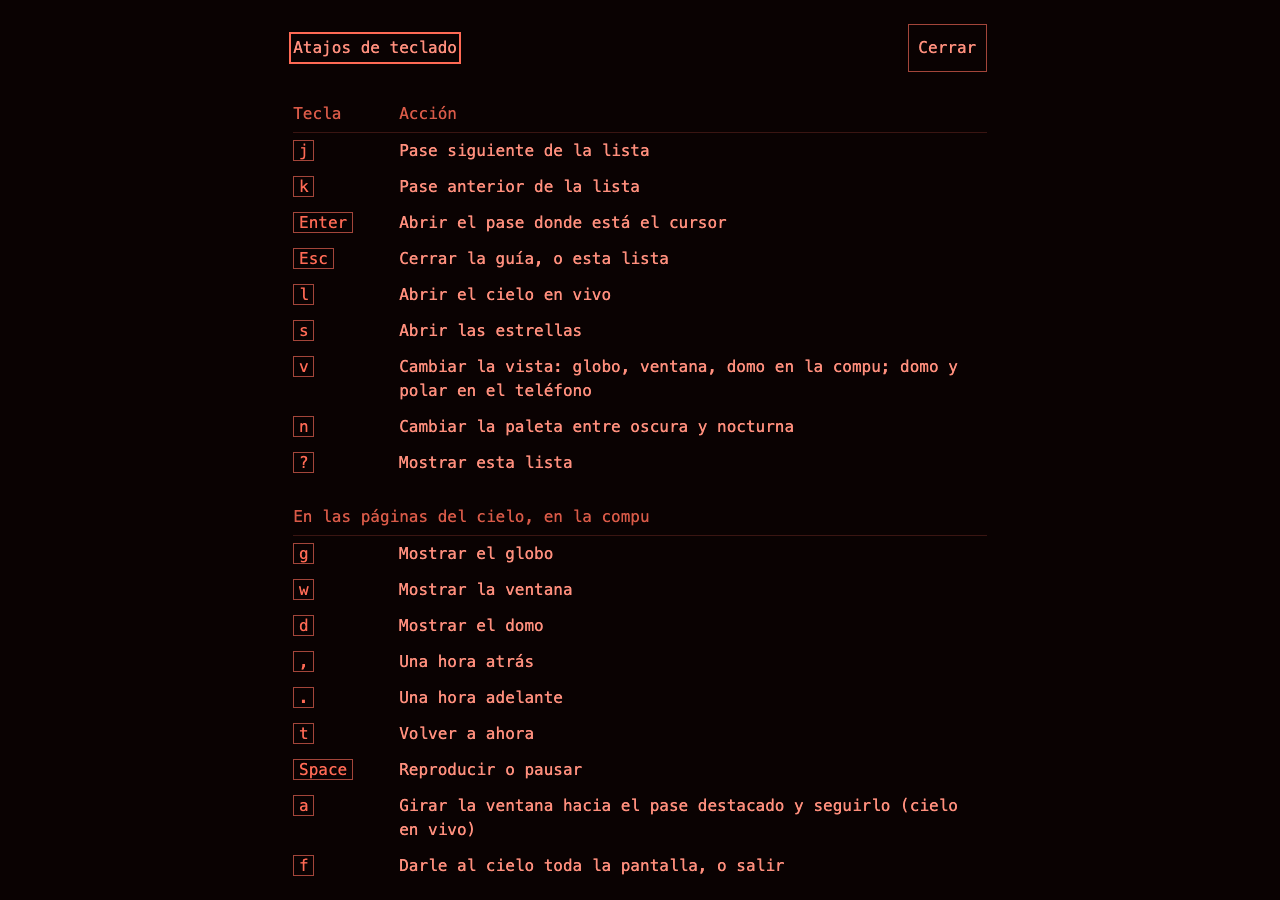
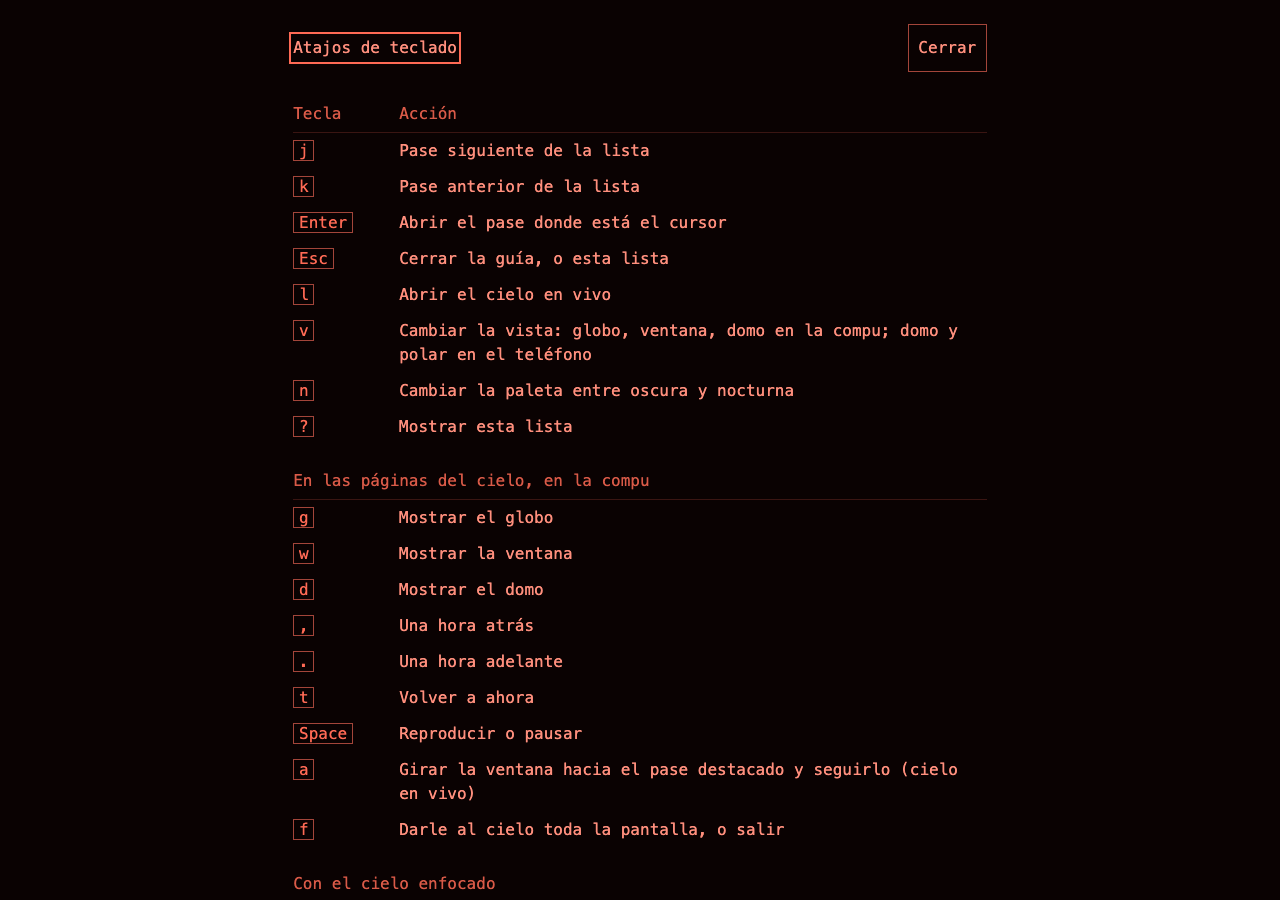
R222: live takes the focus on its h1; the overlay loses s
FR-A11Y-4, D-1230: with no Back, entering #live from inside focuses the h1. structure.spec and shortcuts.spec follow; the four r35 overlay captures drop the s row.

diff --git a/tests/e2e/structure.spec.ts b/tests/e2e/structure.spec.ts
@@ -5,10 +5,9 @@
  * `App.structure.test.tsx` holds the same per screen in jsdom; this is where the widths, the stored run and
  * the real history are.
  */
-import { expect, type Locator, type Page } from '@playwright/test';
+import { expect, type Page } from '@playwright/test';
 import { test } from '@playwright/test';
-import { ROW_PX } from '../../src/lib/layout';
-import { domeDrawn, seedStoredRun, STORED_RUN, type StoredRun } from './liveHelpers';
+import { seedStoredRun, STORED_RUN, type StoredRun } from './liveHelpers';
 import { A11Y_MAX_H2, landmarkCounts, pageOutline, skippedLevels } from './structure';
 
 const PHONE = { width: 390, height: 844 };
@@ -52,8 +51,6 @@ const list = async (page: Page): Promise<void> => {
 const openGuide = (page: Page, nth = 0) => page.getByRole('button', { name: /Open guide|Abrir la guía/ }).nth(nth);
 /** The guide's way out: the sheet's `← Back to the list` on a phone, the panel's `×` on a desk. */
 const closeGuide = (page: Page) => page.locator('[role="dialog"][data-pass-id] button').first().or(page.getByTestId('guide-panel').getByRole('button', { name: 'Close the guide' }));
-/** The live page's Back control: R148's head over the sky carries it with its `live-back` test id. */
-const liveBack = (page: Page) => page.getByTestId('live-back');
 const focused = (page: Page): Promise<string> =>
   page.evaluate(() => {
     const active = document.activeElement;
@@ -128,7 +125,8 @@ test.describe('the title (FR-A11Y-3, US-30 AC3)', () => {
       await expect(page).toHaveTitle(words.app);
       await page.getByTestId('live-link').click();
       await expect(page).toHaveTitle(`${words.live} · ${words.app}`);
-      await page.getByTestId('live-back').click();
+      // R222 (D-1230): live is a tab with no Back; the browser's Back leaves it.
+      await page.goBack();
       await expect(page).toHaveTitle(words.app);
       await openGuide(page).click();
       // "<satellite> <start time> · <app title>"
@@ -162,9 +160,10 @@ test.describe('focus and the announcer (FR-A11Y-4, US-30 AC4)', () => {
 
     await page.getByTestId('live-link').focus();
     await page.keyboard.press('Enter');
-    // R213 (FR-STRIP-5): nothing asks, so the focus is Back's and one `Esc` leaves the page to the control that opened it (FR-A11Y-4).
-    await expect.poll(() => focused(page)).toBe('live-back');
-    await page.keyboard.press('Escape');
+    // R222 (D-1230): live is a tab with no Back, so the focus is its `h1`; the browser's Back leaves it, the focus back on
+    // the control that opened it (FR-A11Y-4).
+    await expect.poll(() => focused(page)).toMatch(/^h1:/);
+    await page.goBack();
     await list(page);
     await expect.poll(() => focused(page)).toBe('live-link');
 
@@ -221,7 +220,7 @@ test.describe('history (FR-ROUTE-1..3, F-91)', () => {
     });
     cycles.push(async () => {
       await page.getByTestId('live-link').click();
-      await liveBack(page).click();
+      await page.goBack();
     });
     cycles.push(async () => {
       await page.getByTestId('settings-link').click();
@@ -303,20 +302,7 @@ test.describe('history (FR-ROUTE-1..3, F-91)', () => {
   });
 });
 
-/** FR-CTRL-17, D-1247: the box overhangs Back's line by a hairline, and the ring's inner edge is outside it on every side. */
-async function expectRingOutsideBox(back: Locator): Promise<void> {
-  const covered = await back.evaluate((element) => {
-    const box = element.querySelector('span');
-    if (!box) throw new Error('Back has no box');
-    const line = element.getBoundingClientRect();
-    const drawn = box.getBoundingClientRect();
-    const offset = parseFloat(getComputedStyle(element).outlineOffset);
-    return Math.max(line.top - drawn.top, drawn.bottom - line.bottom, line.left - drawn.left, drawn.right - line.right) - offset;
-  });
-  expect(covered, 'the ring covers none of the box').toBeLessThanOrEqual(0.1);
-}
-
-// R215 (FR-CTRL-5): the header's `← back` has no box, so FR-CTRL-17's rule is the live page's Back's alone (below).
+// R215 (FR-CTRL-5): the header's `← back` has no box, and the live page's Back, FR-CTRL-17's other case, went in R222 (D-1230).
 test("the header's back draws no box, Settings at 360 px (FR-CTRL-5)", async ({ page }) => {
   await page.setViewportSize({ width: 360, height: 640 });
   await seedStoredRun(page, { settled: true });
@@ -330,40 +316,4 @@ test("the header's back draws no box, Settings at 360 px (FR-CTRL-5)", async ({ 
   for (const width of borders) expect(width).toBe('0px');
 });
 
-/**
- * F-100 (V21-24, D-642; FR-A11Y-4, FR-X-5): entering `#live` focuses Back, and with no pointer or key yet pressed
- * the browser draws that as `:focus-visible`. The ring goes round the text line, not the 48 px tap box, so it stays
- * off the line under it, and taking the tap box away while it shows moves nothing on the page. A row that grew here
- * once moved `[ scrub ]` between a pointer's down and up, and the click was lost.
- */
-// R212 (D-1267): 1200 × 450 left the list: a desk's live page is a tab and draws no Back.
-for (const size of [PHONE, { width: 844, height: 390 }]) {
-  test(`Back's focus ring hugs its line and moves nothing, ${String(size.width)} × ${String(size.height)} (F-100)`, async ({ page }) => {
-    await page.setViewportSize(size);
-    await seedStoredRun(page, { settled: true });
-    // R212 (D-1267): live as the load's own entry has no Back, so it is entered from the satellites page's link, by key.
-    await page.locator('#root > header').getByTestId('live-link').focus();
-    await page.keyboard.press('Enter');
-    await domeDrawn(page);
-    const back = page.getByTestId('live-back');
-    // R213 (FR-STRIP-5): nothing asks at any width, so the focus is where the page put it and the ring the browser's own.
-    await expect(page.locator('[aria-modal="true"]')).toHaveCount(0);
-    await expect(back).toBeFocused();
-    expect(await back.evaluate((element) => element.matches(':focus-visible'))).toBe(true);
-    const boxes = (): Promise<number[][]> =>
-      page.evaluate(() =>
-        Array.from(document.querySelectorAll('[data-testid="live-page"] button')).filter((b) => b.getAttribute('data-testid') !== 'live-back').map((b) => {
-          const r = b.getBoundingClientRect();
-          return [r.x, r.y, r.width, r.height];
-        }),
-      );
-    const focusedBoxes = await boxes();
-    const ring = await back.boundingBox();
-    expect(ring?.height, 'the ring is drawn round the text line, not the tap box').toBeLessThanOrEqual(ROW_PX);
-    await expectRingOutsideBox(back);
-    await back.evaluate((element) => {
-      (element as HTMLElement).blur();
-    });
-    expect(await boxes(), 'nothing on the page moved when the ring went').toEqual(focusedBoxes);
-  });
-}
+// R222 (D-1230): F-100's Back on `#live` went with live's Back; live is a tab at every width.

diff --git a/tests/e2e/shortcuts.spec.ts b/tests/e2e/shortcuts.spec.ts
@@ -141,7 +141,7 @@ test('? opens the overlay, which lists the keys, and Esc closes it', async ({ pa
 
   const overlay = page.getByTestId('shortcuts-overlay');
   await expect(overlay).toBeVisible();
-  await expect(overlay.locator('kbd')).toHaveText(['j', 'k', 'Enter', 'Esc', 'l', 's', 'v', 'n', '?', 'g', 'w', 'd', ',', '.', 't', 'Space', 'a', 'f', '← →', '↑ ↓', '+ −', '0 Home']);
+  await expect(overlay.locator('kbd')).toHaveText(['j', 'k', 'Enter', 'Esc', 'l', 'v', 'n', '?', 'g', 'w', 'd', ',', '.', 't', 'Space', 'a', 'f', '← →', '↑ ↓', '+ −', '0 Home']);
   // Nothing behind it can be reached while it is up.
   await expect(page.getByRole('main')).toHaveAttribute('inert', '');
 
@@ -173,7 +173,7 @@ test('the overlay reads in Spanish with the keys untranslated (FR-I18N-2/4)', as
   await page.keyboard.press('?');
   const overlay = page.getByTestId('shortcuts-overlay');
   await expect(overlay.getByRole('heading', { name: 'Atajos de teclado' })).toBeVisible();
-  await expect(overlay.locator('kbd')).toHaveText(['j', 'k', 'Enter', 'Esc', 'l', 's', 'v', 'n', '?', 'g', 'w', 'd', ',', '.', 't', 'Space', 'a', 'f', '← →', '↑ ↓', '+ −', '0 Home']);
+  await expect(overlay.locator('kbd')).toHaveText(['j', 'k', 'Enter', 'Esc', 'l', 'v', 'n', '?', 'g', 'w', 'd', ',', '.', 't', 'Space', 'a', 'f', '← →', '↑ ↓', '+ −', '0 Home']);
   await expect(overlay).toContainText('Pase siguiente de la lista');
   await expect(overlay).not.toContainText('Next pass in the list');
 });
@@ -185,7 +185,7 @@ for (const locale of ['en', 'es'] as const) {
       if (theme === 'night') await page.keyboard.press('n');
       await page.keyboard.press('?');
       await expect(page.getByTestId('shortcuts-overlay')).toBeVisible();
-      await expect(page.getByTestId('shortcuts-overlay').locator('kbd')).toHaveCount(22); // R115: `s`, and the stars page's two key rows; R127: `f`; R189: the desk sky keys and the box's zoom and reset
+      await expect(page.getByTestId('shortcuts-overlay').locator('kbd')).toHaveCount(21); // R115: the stars page's two key rows (its `s` went with it in R222); R127: `f`; R189: the desk sky keys and the box's zoom and reset
       await page.screenshot({ path: `docs/screenshots/r35-shortcuts-1280-${theme}-${locale}.png` });
     });
   }

diff --git a/src/ui/screens/Live.tsx b/src/ui/screens/Live.tsx
@@ -74,6 +74,7 @@ import { VisuallyHidden } from '../components/primitives/VisuallyHidden';
 import { SectionHeading } from '../components/primitives/SectionHeading';
 import styles from './Live.module.css';
 import { jumpFitsOnPath, jumpPlacement, liveShape, rowsFor, type LiveRow } from './liveRows';
+import { depth } from '../navigation';
 
 /**
  * R32 (FR-LIVE-1, FR-LIVE-2, FR-LIVE-3, FR-LIVE-9, FR-LIVE-10; US-15 AC1, AC2,
@@ -181,6 +182,21 @@ export function LivePage({ link, chartHand: visitHand }: LivePageProps) {
    * tap targets, and FR-COMP-2 puts both on the settings page on a phone
    * (R52). Wide has the room and keeps them, as R32 laid the page out.
    */
+  /*
+   * R222 (FR-A11Y-4, D-1230): live is a tab, with no Back to take the focus on the way in, so it takes the page's
+   * `h1` as the shell gives a tab whose opener went — here from inside, the chunk being lazy. Only when the page was
+   * entered from inside the app (`depth() > 0`): a load leaves the focus where the browser puts it.
+   */
+  useEffect(() => {
+    if (depth() === 0 || document.activeElement !== document.body) return;
+    const heading = document.querySelector<HTMLElement>('[data-testid="live-page"] h1');
+    if (!heading) return;
+    if (!heading.hasAttribute('tabindex')) {
+      heading.setAttribute('tabindex', '-1');
+      heading.addEventListener('blur', () => heading.removeAttribute('tabindex'), { once: true });
+    }
+    heading.focus();
+  }, []);
   /*
    * R148 (FR-FULL-5; D-927) → R152 (FR-GYRO-6, D-945) → R222 (D-1230): `Esc` in steps, in this one listener — the
    * open sheet closes, then the facts do; with nothing open the key is not the page's (live is a tab, nothing to
